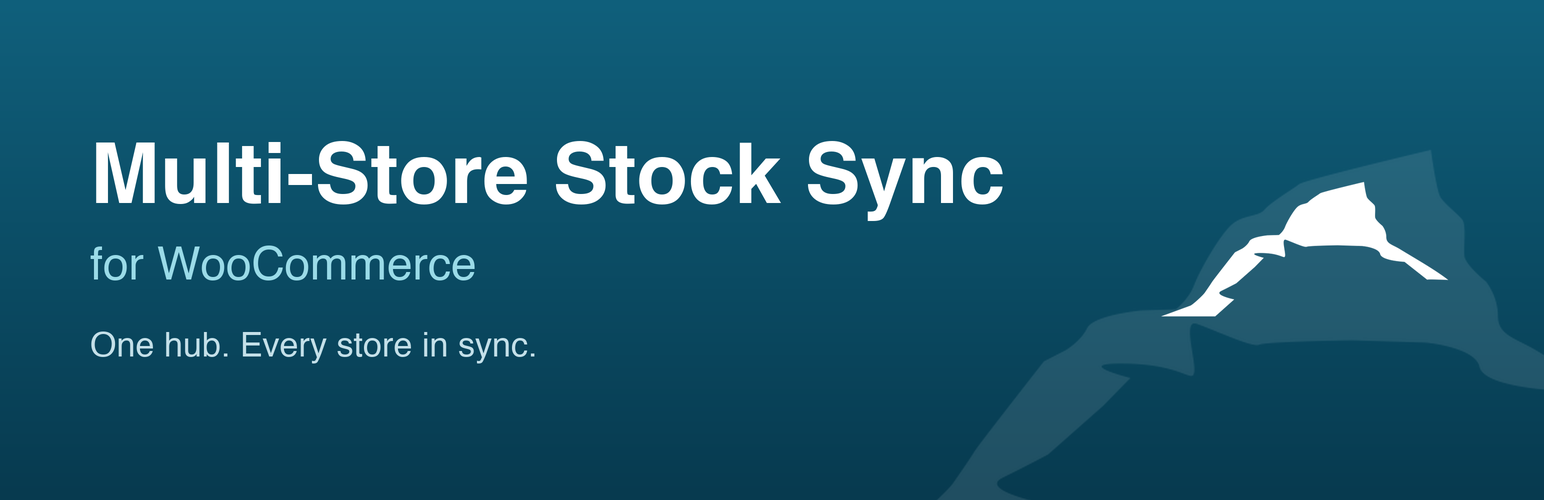
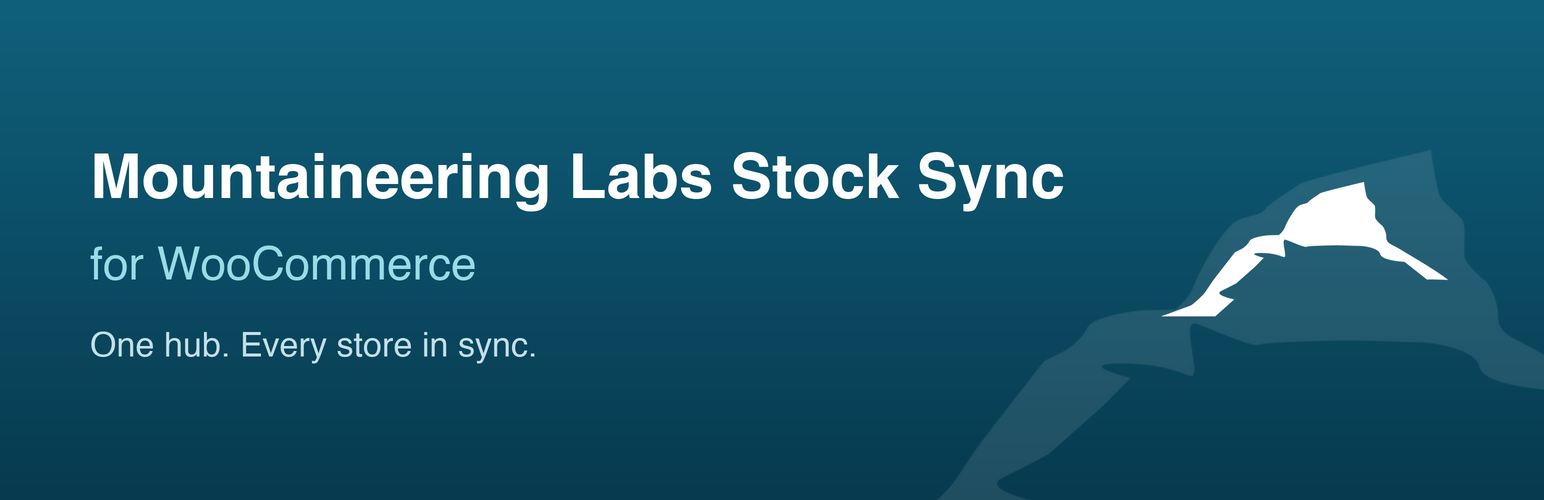
Address wordpress.org review: distinctive name, enqueued admin JS, translations via translate.wordpress.org (v1.4.0)
- Renamed to 'Mountaineering Labs Stock Sync for WooCommerce', slug/text
  domain 'mountaineering-labs-stock-sync' (reviewer: previous name too
  generic and too similar to existing plugins)
- Settings-page toggle script moved to js/admin.js, enqueued via
  admin_enqueue_scripts (reviewer: no inline <script>)
- Language files stay in the repo for GitHub installs but are excluded
  from the wordpress.org package (translations come from
  translate.wordpress.org)

Changed region(s): [[0.0622, 0.27, 0.6839, 0.45]]

diff --git a/js/admin.js b/js/admin.js
@@ -1,0 +1,20 @@
+(function () {
+	function toggle() {
+		var roleEl = document.getElementById( 'wcss_role' );
+		if ( ! roleEl ) {
+			return;
+		}
+		var role = roleEl.value;
+		document.querySelectorAll( '.wcss-spoke-only' ).forEach( function ( el ) {
+			el.style.display = role === 'spoke' ? '' : 'none';
+		} );
+		document.querySelectorAll( '.wcss-hub-only' ).forEach( function ( el ) {
+			el.style.display = role === 'hub' ? '' : 'none';
+		} );
+	}
+	var roleEl = document.getElementById( 'wcss_role' );
+	if ( roleEl ) {
+		roleEl.addEventListener( 'change', toggle );
+		toggle();
+	}
+})();

diff --git a/includes/class-wcss-settings.php b/includes/class-wcss-settings.php
@@ -22,6 +22,14 @@ class WCSS_Settings {
 	private function __construct() {
 		add_action( 'admin_menu', array( $this, 'add_menu' ) );
 		add_action( 'admin_init', array( $this, 'register_settings' ) );
+		add_action( 'admin_enqueue_scripts', array( $this, 'enqueue_assets' ) );
+	}
+
+	public function enqueue_assets( $hook_suffix ) {
+		if ( 'woocommerce_page_wcss-settings' !== $hook_suffix ) {
+			return;
+		}
+		wp_enqueue_script( 'wcss-admin', WCSS_URL . 'js/admin.js', array(), WCSS_VERSION, true );
 	}
 
 	public static function get() {
@@ -38,8 +46,8 @@ class WCSS_Settings {
 	public function add_menu() {
 		add_submenu_page(
 			'woocommerce',
-			__( 'Stock Sync', 'multi-store-stock-sync' ),
-			__( 'Stock Sync', 'multi-store-stock-sync' ),
+			__( 'Stock Sync', 'mountaineering-labs-stock-sync' ),
+			__( 'Stock Sync', 'mountaineering-labs-stock-sync' ),
 			'manage_woocommerce',
 			'wcss-settings',
 			array( $this, 'render_page' )
@@ -69,58 +77,58 @@ class WCSS_Settings {
 			$settings                  = self::get();
 			$settings['shared_secret'] = wp_generate_password( 40, false );
 			update_option( self::OPTION_KEY, $settings );
-			echo '<div class="notice notice-success"><p>' . esc_html__( 'New shared secret generated. Remember to set the same value on ALL connected sites.', 'multi-store-stock-sync' ) . '</p></div>';
+			echo '<div class="notice notice-success"><p>' . esc_html__( 'New shared secret generated. Remember to set the same value on ALL connected sites.', 'mountaineering-labs-stock-sync' ) . '</p></div>';
 		}
 
 		if ( isset( $_POST['wcss_resync'] ) && check_admin_referer( 'wcss_resync' ) ) {
 			$count = WCSS_Client::instance()->resync_all();
 			/* translators: %d: number of products/variations queued. */
-			echo '<div class="notice notice-success"><p>' . esc_html( sprintf( __( 'Full resync queued for %d product(s)/variation(s).', 'multi-store-stock-sync' ), $count ) ) . '</p></div>';
+			echo '<div class="notice notice-success"><p>' . esc_html( sprintf( __( 'Full resync queued for %d product(s)/variation(s).', 'mountaineering-labs-stock-sync' ), $count ) ) . '</p></div>';
 		}
 
 		$settings = self::get();
 		?>
 		<div class="wrap">
-			<h1><?php esc_html_e( 'Multi-Store Stock Sync', 'multi-store-stock-sync' ); ?></h1>
-			<p><?php esc_html_e( 'Set up one site as the hub (authoritative stock) and the others as spokes. The same shared secret must be used on all connected sites.', 'multi-store-stock-sync' ); ?></p>
+			<h1><?php esc_html_e( 'Mountaineering Labs Stock Sync', 'mountaineering-labs-stock-sync' ); ?></h1>
+			<p><?php esc_html_e( 'Set up one site as the hub (authoritative stock) and the others as spokes. The same shared secret must be used on all connected sites.', 'mountaineering-labs-stock-sync' ); ?></p>
 
 			<form method="post" action="options.php">
 				<?php settings_fields( 'wcss_settings_group' ); ?>
 				<table class="form-table">
 					<tr>
-						<th><label for="wcss_role"><?php esc_html_e( 'Role', 'multi-store-stock-sync' ); ?></label></th>
+						<th><label for="wcss_role"><?php esc_html_e( 'Role', 'mountaineering-labs-stock-sync' ); ?></label></th>
 						<td>
 							<select name="<?php echo esc_attr( self::OPTION_KEY ); ?>[role]" id="wcss_role">
-								<option value="spoke" <?php selected( $settings['role'], 'spoke' ); ?>><?php esc_html_e( 'Spoke', 'multi-store-stock-sync' ); ?></option>
-								<option value="hub" <?php selected( $settings['role'], 'hub' ); ?>><?php esc_html_e( 'Hub', 'multi-store-stock-sync' ); ?></option>
+								<option value="spoke" <?php selected( $settings['role'], 'spoke' ); ?>><?php esc_html_e( 'Spoke', 'mountaineering-labs-stock-sync' ); ?></option>
+								<option value="hub" <?php selected( $settings['role'], 'hub' ); ?>><?php esc_html_e( 'Hub', 'mountaineering-labs-stock-sync' ); ?></option>
 							</select>
 						</td>
 					</tr>
 					<tr>
-						<th><label for="wcss_site_id"><?php esc_html_e( 'Site ID', 'multi-store-stock-sync' ); ?></label></th>
+						<th><label for="wcss_site_id"><?php esc_html_e( 'Site ID', 'mountaineering-labs-stock-sync' ); ?></label></th>
 						<td>
-							<input type="text" class="regular-text" id="wcss_site_id" name="<?php echo esc_attr( self::OPTION_KEY ); ?>[site_id]" value="<?php echo esc_attr( $settings['site_id'] ); ?>" placeholder="<?php esc_attr_e( 'e.g. main-store', 'multi-store-stock-sync' ); ?>" />
-							<p class="description"><?php esc_html_e( 'Unique short identifier for this site (used in logs and to avoid loops).', 'multi-store-stock-sync' ); ?></p>
+							<input type="text" class="regular-text" id="wcss_site_id" name="<?php echo esc_attr( self::OPTION_KEY ); ?>[site_id]" value="<?php echo esc_attr( $settings['site_id'] ); ?>" placeholder="<?php esc_attr_e( 'e.g. main-store', 'mountaineering-labs-stock-sync' ); ?>" />
+							<p class="description"><?php esc_html_e( 'Unique short identifier for this site (used in logs and to avoid loops).', 'mountaineering-labs-stock-sync' ); ?></p>
 						</td>
 					</tr>
 					<tr>
-						<th><label for="wcss_secret"><?php esc_html_e( 'Shared secret', 'multi-store-stock-sync' ); ?></label></th>
+						<th><label for="wcss_secret"><?php esc_html_e( 'Shared secret', 'mountaineering-labs-stock-sync' ); ?></label></th>
 						<td>
 							<input type="text" class="regular-text" id="wcss_secret" name="<?php echo esc_attr( self::OPTION_KEY ); ?>[shared_secret]" value="<?php echo esc_attr( $settings['shared_secret'] ); ?>" />
 						</td>
 					</tr>
 					<tr class="wcss-spoke-only">
-						<th><label for="wcss_hub_url"><?php esc_html_e( 'Hub URL', 'multi-store-stock-sync' ); ?></label></th>
+						<th><label for="wcss_hub_url"><?php esc_html_e( 'Hub URL', 'mountaineering-labs-stock-sync' ); ?></label></th>
 						<td>
 							<input type="url" class="regular-text" id="wcss_hub_url" name="<?php echo esc_attr( self::OPTION_KEY ); ?>[hub_url]" value="<?php echo esc_attr( $settings['hub_url'] ); ?>" placeholder="https://example.com" />
-							<p class="description"><?php esc_html_e( 'Only relevant when role = Spoke.', 'multi-store-stock-sync' ); ?></p>
+							<p class="description"><?php esc_html_e( 'Only relevant when role = Spoke.', 'mountaineering-labs-stock-sync' ); ?></p>
 						</td>
 					</tr>
 					<tr class="wcss-hub-only">
-						<th><label for="wcss_spoke_urls"><?php esc_html_e( 'Spoke URLs', 'multi-store-stock-sync' ); ?></label></th>
+						<th><label for="wcss_spoke_urls"><?php esc_html_e( 'Spoke URLs', 'mountaineering-labs-stock-sync' ); ?></label></th>
 						<td>
 							<textarea class="large-text" rows="4" id="wcss_spoke_urls" name="<?php echo esc_attr( self::OPTION_KEY ); ?>[spoke_urls]" placeholder="https://store2.example&#10;https://store3.example"><?php echo esc_textarea( $settings['spoke_urls'] ); ?></textarea>
-							<p class="description"><?php esc_html_e( 'One URL per line. Only relevant when role = Hub.', 'multi-store-stock-sync' ); ?></p>
+							<p class="description"><?php esc_html_e( 'One URL per line. Only relevant when role = Hub.', 'mountaineering-labs-stock-sync' ); ?></p>
 						</td>
 					</tr>
 				</table>
@@ -128,46 +136,35 @@ class WCSS_Settings {
 			</form>
 
 			<hr />
-			<h2><?php esc_html_e( 'Generate new shared secret', 'multi-store-stock-sync' ); ?></h2>
+			<h2><?php esc_html_e( 'Generate new shared secret', 'mountaineering-labs-stock-sync' ); ?></h2>
 			<form method="post">
 				<?php wp_nonce_field( 'wcss_generate_secret' ); ?>
-				<button type="submit" name="wcss_generate_secret" class="button"><?php esc_html_e( 'Generate', 'multi-store-stock-sync' ); ?></button>
+				<button type="submit" name="wcss_generate_secret" class="button"><?php esc_html_e( 'Generate', 'mountaineering-labs-stock-sync' ); ?></button>
 			</form>
 
 			<?php if ( 'hub' === $settings['role'] ) : ?>
 				<hr />
-				<h2><?php esc_html_e( 'Full resync', 'multi-store-stock-sync' ); ?></h2>
-				<p><?php esc_html_e( 'Queues the current stock level of every product/variation with an SKU on this (hub) site for delivery to all spokes. Use after initial setup, or if something has gone out of sync.', 'multi-store-stock-sync' ); ?></p>
+				<h2><?php esc_html_e( 'Full resync', 'mountaineering-labs-stock-sync' ); ?></h2>
+				<p><?php esc_html_e( 'Queues the current stock level of every product/variation with an SKU on this (hub) site for delivery to all spokes. Use after initial setup, or if something has gone out of sync.', 'mountaineering-labs-stock-sync' ); ?></p>
 				<form method="post">
 					<?php wp_nonce_field( 'wcss_resync' ); ?>
-					<button type="submit" name="wcss_resync" class="button button-primary"><?php esc_html_e( 'Run full resync', 'multi-store-stock-sync' ); ?></button>
+					<button type="submit" name="wcss_resync" class="button button-primary"><?php esc_html_e( 'Run full resync', 'mountaineering-labs-stock-sync' ); ?></button>
 				</form>
 			<?php endif; ?>
 
 			<hr />
-			<h2><?php esc_html_e( 'Outbound queue', 'multi-store-stock-sync' ); ?></h2>
+			<h2><?php esc_html_e( 'Outbound queue', 'mountaineering-labs-stock-sync' ); ?></h2>
 			<p>
 				<?php
 				/* translators: %d: number of queued messages. */
-				echo esc_html( sprintf( __( '%d message(s) awaiting delivery (including any in retry backoff).', 'multi-store-stock-sync' ), WCSS_Queue::pending_count() ) );
+				echo esc_html( sprintf( __( '%d message(s) awaiting delivery (including any in retry backoff).', 'mountaineering-labs-stock-sync' ), WCSS_Queue::pending_count() ) );
 				?>
 			</p>
 
 			<hr />
-			<h2><?php esc_html_e( 'Recent events', 'multi-store-stock-sync' ); ?></h2>
+			<h2><?php esc_html_e( 'Recent events', 'mountaineering-labs-stock-sync' ); ?></h2>
 			<?php WCSS_Logger::render_log_table(); ?>
 		</div>
-		<script>
-		(function() {
-			function toggle() {
-				var role = document.getElementById('wcss_role').value;
-				document.querySelectorAll('.wcss-spoke-only').forEach(function(el){ el.style.display = role === 'spoke' ? '' : 'none'; });
-				document.querySelectorAll('.wcss-hub-only').forEach(function(el){ el.style.display = role === 'hub' ? '' : 'none'; });
-			}
-			document.getElementById('wcss_role').addEventListener('change', toggle);
-			toggle();
-		})();
-		</script>
 		<?php
 	}
 }

diff --git a/mountaineering-labs-stock-sync.php b/mountaineering-labs-stock-sync.php
@@ -1,14 +1,14 @@
 <?php
 /**
- * Plugin Name: Multi-Store Stock Sync for WooCommerce
- * Plugin URI: https://github.com/mountaineering-labs/multi-store-stock-sync
+ * Plugin Name: Mountaineering Labs Stock Sync for WooCommerce
+ * Plugin URI: https://github.com/mountaineering-labs/mountaineering-labs-stock-sync
  * Description: Central stock management across multiple WooCommerce installations (hub/spoke, SKU-based matching).
- * Version: 1.3.0
+ * Version: 1.4.0
  * Author: Mountaineering Labs
  * Author URI: https://mountaineering.no
  * License: GPL-2.0-or-later
  * License URI: https://www.gnu.org/licenses/gpl-2.0.html
- * Text Domain: multi-store-stock-sync
+ * Text Domain: mountaineering-labs-stock-sync
  * Domain Path: /languages
  * Requires at least: 6.5
  * Requires PHP: 7.4
@@ -19,8 +19,9 @@ if ( ! defined( 'ABSPATH' ) ) {
 	exit;
 }
 
-define( 'WCSS_VERSION', '1.3.0' );
+define( 'WCSS_VERSION', '1.4.0' );
 define( 'WCSS_DIR', plugin_dir_path( __FILE__ ) );
+define( 'WCSS_URL', plugin_dir_url( __FILE__ ) );
 
 require_once WCSS_DIR . 'includes/class-wcss-logger.php';
 require_once WCSS_DIR . 'includes/class-wcss-settings.php';
@@ -38,7 +39,7 @@ function wcss_init() {
 		add_action(
 			'admin_notices',
 			function () {
-				echo '<div class="notice notice-error"><p>' . esc_html__( 'Multi-Store Stock Sync requires WooCommerce to be active.', 'multi-store-stock-sync' ) . '</p></div>';
+				echo '<div class="notice notice-error"><p>' . esc_html__( 'Mountaineering Labs Stock Sync requires WooCommerce to be active.', 'mountaineering-labs-stock-sync' ) . '</p></div>';
 			}
 		);
 		return;
@@ -69,7 +70,7 @@ add_filter(
 	function ( $schedules ) {
 		$schedules['wcss_two_minutes'] = array(
 			'interval' => 2 * MINUTE_IN_SECONDS,
-			'display'  => 'Every 2 minutes (Multi-Store Stock Sync)',
+			'display'  => 'Every 2 minutes (Mountaineering Labs Stock Sync)',
 		);
 		return $schedules;
 	}

diff --git a/languages/mountaineering-labs-stock-sync-de_DE.l10n.php b/languages/mountaineering-labs-stock-sync-de_DE.l10n.php
@@ -1,13 +1,13 @@
 <?php
 return array(
-	'project-id-version' => 'Multi-Store Stock Sync 1.3.0',
+	'project-id-version' => 'Mountaineering Labs Stock Sync 1.3.0',
 	'language'           => 'de_DE',
 	'plural-forms'       => 'nplurals=2; plural=n != 1;',
 	'x-generator'        => 'manual',
 	'messages'           => array(
-		'Multi-Store Stock Sync requires WooCommerce to be active.' => 'Multi-Store Stock Sync erfordert ein aktiviertes WooCommerce.',
+		'Mountaineering Labs Stock Sync requires WooCommerce to be active.' => 'Mountaineering Labs Stock Sync erfordert ein aktiviertes WooCommerce.',
 		'Stock Sync'                                       => 'Lagerabgleich',
-		'Multi-Store Stock Sync'                                    => 'Multi-Store Stock Sync',
+		'Mountaineering Labs Stock Sync'                                    => 'Mountaineering Labs Stock Sync',
 		'Set up one site as the hub (authoritative stock) and the others as spokes. The same shared secret must be used on all connected sites.' => 'Richten Sie eine Website als Hub (maßgeblicher Lagerbestand) ein und die anderen als Spokes. Auf allen verbundenen Websites muss dasselbe gemeinsame Geheimnis verwendet werden.',
 		'Role'                                             => 'Rolle',
 		'Spoke'                                            => 'Spoke',

diff --git a/languages/mountaineering-labs-stock-sync-fr_FR.l10n.php b/languages/mountaineering-labs-stock-sync-fr_FR.l10n.php
@@ -1,13 +1,13 @@
 <?php
 return array(
-	'project-id-version' => 'Multi-Store Stock Sync 1.3.0',
+	'project-id-version' => 'Mountaineering Labs Stock Sync 1.3.0',
 	'language'           => 'fr_FR',
 	'plural-forms'       => 'nplurals=2; plural=n > 1;',
 	'x-generator'        => 'manual',
 	'messages'           => array(
-		'Multi-Store Stock Sync requires WooCommerce to be active.' => 'Multi-Store Stock Sync nécessite que WooCommerce soit activé.',
+		'Mountaineering Labs Stock Sync requires WooCommerce to be active.' => 'Mountaineering Labs Stock Sync nécessite que WooCommerce soit activé.',
 		'Stock Sync'                                       => 'Synchro du stock',
-		'Multi-Store Stock Sync'                                    => 'Multi-Store Stock Sync',
+		'Mountaineering Labs Stock Sync'                                    => 'Mountaineering Labs Stock Sync',
 		'Set up one site as the hub (authoritative stock) and the others as spokes. The same shared secret must be used on all connected sites.' => 'Configurez un site comme hub (stock faisant autorité) et les autres comme spokes. Le même secret partagé doit être utilisé sur tous les sites connectés.',
 		'Role'                                             => 'Rôle',
 		'Spoke'                                            => 'Spoke',

diff --git a/languages/mountaineering-labs-stock-sync-es_ES.l10n.php b/languages/mountaineering-labs-stock-sync-es_ES.l10n.php
@@ -1,13 +1,13 @@
 <?php
 return array(
-	'project-id-version' => 'Multi-Store Stock Sync 1.3.0',
+	'project-id-version' => 'Mountaineering Labs Stock Sync 1.3.0',
 	'language'           => 'es_ES',
 	'plural-forms'       => 'nplurals=2; plural=n != 1;',
 	'x-generator'        => 'manual',
 	'messages'           => array(
-		'Multi-Store Stock Sync requires WooCommerce to be active.' => 'Multi-Store Stock Sync requiere que WooCommerce esté activo.',
+		'Mountaineering Labs Stock Sync requires WooCommerce to be active.' => 'Mountaineering Labs Stock Sync requiere que WooCommerce esté activo.',
 		'Stock Sync'                                       => 'Sincronización de stock',
-		'Multi-Store Stock Sync'                                    => 'Multi-Store Stock Sync',
+		'Mountaineering Labs Stock Sync'                                    => 'Mountaineering Labs Stock Sync',
 		'Set up one site as the hub (authoritative stock) and the others as spokes. The same shared secret must be used on all connected sites.' => 'Configura un sitio como hub (stock autoritativo) y los demás como spokes. Debe usarse el mismo secreto compartido en todos los sitios conectados.',
 		'Role'                                             => 'Rol',
 		'Spoke'                                            => 'Spoke',

diff --git a/languages/mountaineering-labs-stock-sync-sv_SE.l10n.php b/languages/mountaineering-labs-stock-sync-sv_SE.l10n.php
@@ -1,13 +1,13 @@
 <?php
 return array(
-	'project-id-version' => 'Multi-Store Stock Sync 1.3.0',
+	'project-id-version' => 'Mountaineering Labs Stock Sync 1.3.0',
 	'language'           => 'sv_SE',
 	'plural-forms'       => 'nplurals=2; plural=n != 1;',
 	'x-generator'        => 'manual',
 	'messages'           => array(
-		'Multi-Store Stock Sync requires WooCommerce to be active.' => 'Multi-Store Stock Sync kräver att WooCommerce är aktiverat.',
+		'Mountaineering Labs Stock Sync requires WooCommerce to be active.' => 'Mountaineering Labs Stock Sync kräver att WooCommerce är aktiverat.',
 		'Stock Sync'                                       => 'Lagersynk',
-		'Multi-Store Stock Sync'                                    => 'Multi-Store Stock Sync',
+		'Mountaineering Labs Stock Sync'                                    => 'Mountaineering Labs Stock Sync',
 		'Set up one site as the hub (authoritative stock) and the others as spokes. The same shared secret must be used on all connected sites.' => 'Ställ in en webbplats som hub (auktoritativt lagersaldo) och de övriga som spokes. Samma delade hemlighet måste användas på alla anslutna webbplatser.',
 		'Role'                                             => 'Roll',
 		'Spoke'                                            => 'Spoke',

diff --git a/languages/mountaineering-labs-stock-sync-da_DK.l10n.php b/languages/mountaineering-labs-stock-sync-da_DK.l10n.php
@@ -1,13 +1,13 @@
 <?php
 return array(
-	'project-id-version' => 'Multi-Store Stock Sync 1.3.0',
+	'project-id-version' => 'Mountaineering Labs Stock Sync 1.3.0',
 	'language'           => 'da_DK',
 	'plural-forms'       => 'nplurals=2; plural=n != 1;',
 	'x-generator'        => 'manual',
 	'messages'           => array(
-		'Multi-Store Stock Sync requires WooCommerce to be active.' => 'Multi-Store Stock Sync kræver, at WooCommerce er aktiveret.',
+		'Mountaineering Labs Stock Sync requires WooCommerce to be active.' => 'Mountaineering Labs Stock Sync kræver, at WooCommerce er aktiveret.',
 		'Stock Sync'                                       => 'Lagersynk',
-		'Multi-Store Stock Sync'                                    => 'Multi-Store Stock Sync',
+		'Mountaineering Labs Stock Sync'                                    => 'Mountaineering Labs Stock Sync',
 		'Set up one site as the hub (authoritative stock) and the others as spokes. The same shared secret must be used on all connected sites.' => 'Opsæt ét website som hub (autoritativ lagerbeholdning) og de andre som spokes. Den samme delte hemmelighed skal bruges på alle forbundne websites.',
 		'Role'                                             => 'Rolle',
 		'Spoke'                                            => 'Spoke',

diff --git a/languages/mountaineering-labs-stock-sync-nb_NO.l10n.php b/languages/mountaineering-labs-stock-sync-nb_NO.l10n.php
@@ -1,13 +1,13 @@
 <?php
 return array(
-	'project-id-version' => 'Multi-Store Stock Sync 1.3.0',
+	'project-id-version' => 'Mountaineering Labs Stock Sync 1.3.0',
 	'language'           => 'nb_NO',
 	'plural-forms'       => 'nplurals=2; plural=n != 1;',
 	'x-generator'        => 'manual',
 	'messages'           => array(
-		'Multi-Store Stock Sync requires WooCommerce to be active.' => 'Multi-Store Stock Sync krever at WooCommerce er aktivert.',
+		'Mountaineering Labs Stock Sync requires WooCommerce to be active.' => 'Mountaineering Labs Stock Sync krever at WooCommerce er aktivert.',
 		'Stock Sync'                                       => 'Lagersynk',
-		'Multi-Store Stock Sync'                                    => 'Multi-Store Stock Sync',
+		'Mountaineering Labs Stock Sync'                                    => 'Mountaineering Labs Stock Sync',
 		'Set up one site as the hub (authoritative stock) and the others as spokes. The same shared secret must be used on all connected sites.' => 'Sett opp ett nettsted som hub (autoritativ lagerbeholdning) og de andre som spoke. Samme delte hemmelighet må brukes på alle tilkoblede nettsteder.',
 		'Role'                                             => 'Rolle',
 		'Spoke'                                            => 'Spoke',

diff --git a/languages/mountaineering-labs-stock-sync-nn_NO.l10n.php b/languages/mountaineering-labs-stock-sync-nn_NO.l10n.php
@@ -1,13 +1,13 @@
 <?php
 return array(
-	'project-id-version' => 'Multi-Store Stock Sync 1.3.0',
+	'project-id-version' => 'Mountaineering Labs Stock Sync 1.3.0',
 	'language'           => 'nn_NO',
 	'plural-forms'       => 'nplurals=2; plural=n != 1;',
 	'x-generator'        => 'manual',
 	'messages'           => array(
-		'Multi-Store Stock Sync requires WooCommerce to be active.' => 'Multi-Store Stock Sync krev at WooCommerce er aktivert.',
+		'Mountaineering Labs Stock Sync requires WooCommerce to be active.' => 'Mountaineering Labs Stock Sync krev at WooCommerce er aktivert.',
 		'Stock Sync'                                       => 'Lagersynk',
-		'Multi-Store Stock Sync'                                    => 'Multi-Store Stock Sync',
+		'Mountaineering Labs Stock Sync'                                    => 'Mountaineering Labs Stock Sync',
 		'Set up one site as the hub (authoritative stock) and the others as spokes. The same shared secret must be used on all connected sites.' => 'Sett opp éi side som hub (autoritativ lagerbeholdning) og dei andre som spoke. Same delte hemmelegheit må brukast på alle tilkopla sider.',
 		'Role'                                             => 'Rolle',
 		'Spoke'                                            => 'Spoke',

diff --git a/includes/class-wcss-logger.php b/includes/class-wcss-logger.php
@@ -28,14 +28,14 @@ class WCSS_Logger {
 	public static function render_log_table() {
 		$entries = array_reverse( get_option( self::OPTION_KEY, array() ) );
 		if ( empty( $entries ) ) {
-			echo '<p>' . esc_html__( 'No events yet.', 'multi-store-stock-sync' ) . '</p>';
+			echo '<p>' . esc_html__( 'No events yet.', 'mountaineering-labs-stock-sync' ) . '</p>';
 			return;
 		}
 		printf(
 			'<table class="widefat striped"><thead><tr><th>%s</th><th>%s</th><th>%s</th></tr></thead><tbody>',
-			esc_html__( 'Time', 'multi-store-stock-sync' ),
-			esc_html__( 'Message', 'multi-store-stock-sync' ),
-			esc_html__( 'Details', 'multi-store-stock-sync' )
+			esc_html__( 'Time', 'mountaineering-labs-stock-sync' ),
+			esc_html__( 'Message', 'mountaineering-labs-stock-sync' ),
+			esc_html__( 'Details', 'mountaineering-labs-stock-sync' )
 		);
 		foreach ( array_slice( $entries, 0, 50 ) as $entry ) {
 			printf(

diff --git a/README.md b/README.md
@@ -1,4 +1,4 @@
-# Multi-Store Stock Sync
+# Mountaineering Labs Stock Sync
 
 Central stock management across multiple WooCommerce installations. Run several stores (for example a Norwegian and an English site selling the same products) and keep stock quantities in sync automatically.
 
@@ -22,7 +22,7 @@ Central stock management across multiple WooCommerce installations. Run several 
 
 ## Languages
 
-The admin UI is in English, with bundled translations for Norwegian (bokmål and nynorsk), German, French, Spanish, Danish and Swedish. The correct language is picked automatically from each site's WordPress language setting.
+The admin UI is in English and fully internationalized. Translation files for Norwegian (bokmål and nynorsk), German, French, Spanish, Danish and Swedish live in `languages/` in this repository (used when installing from GitHub). The wordpress.org distribution receives translations automatically via translate.wordpress.org instead.
 
 ## Requirements
 
